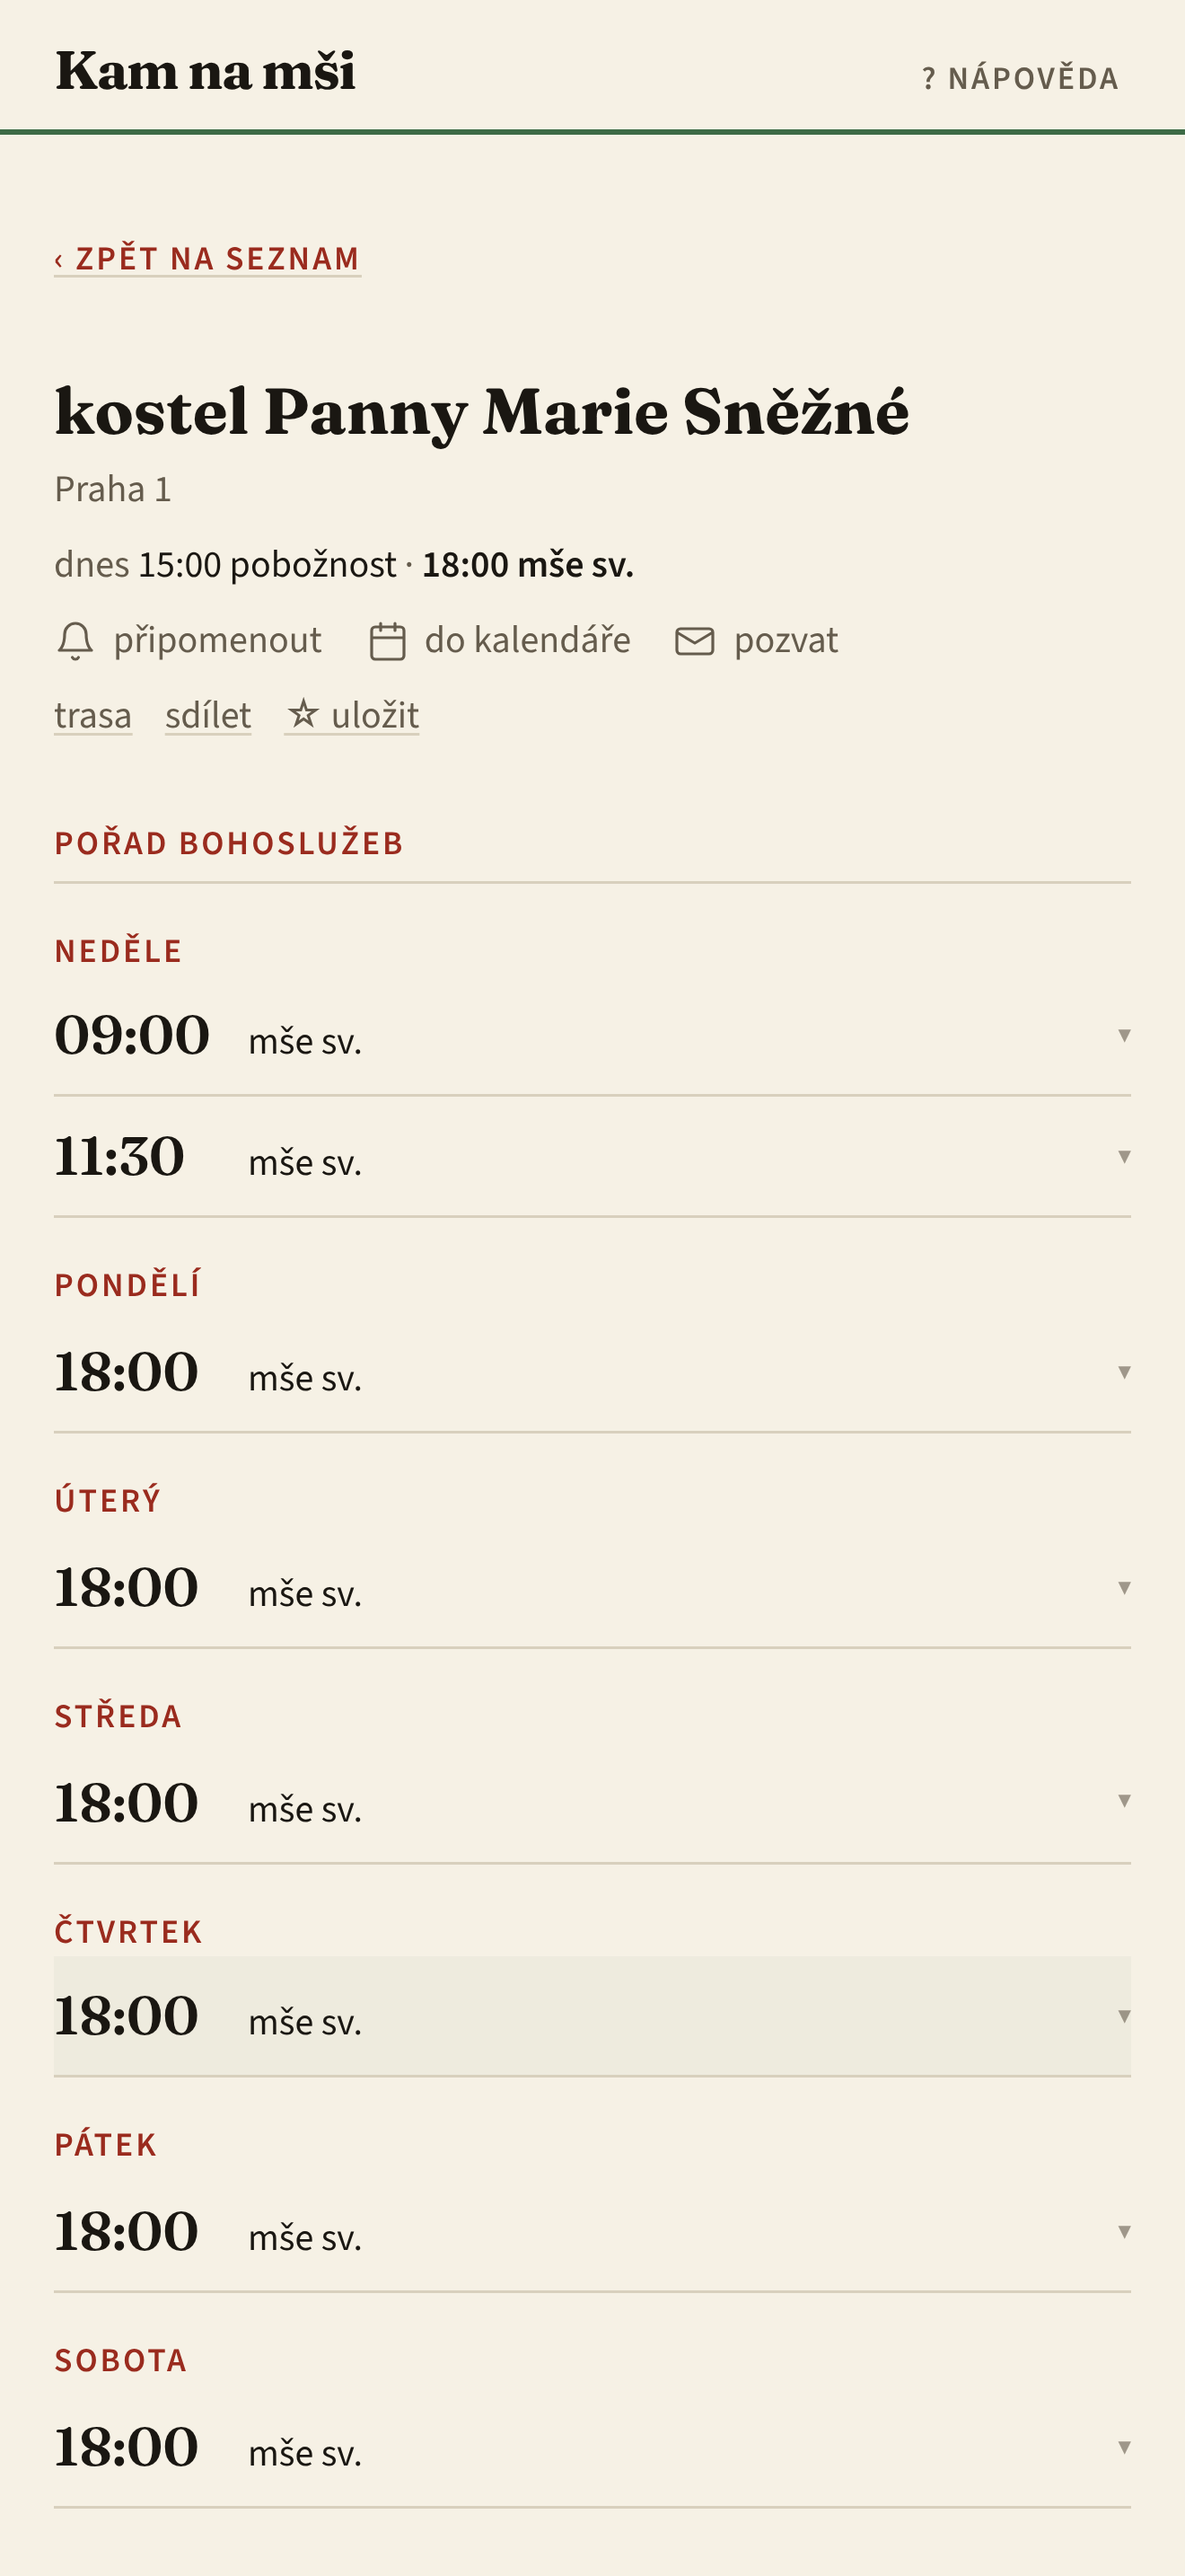
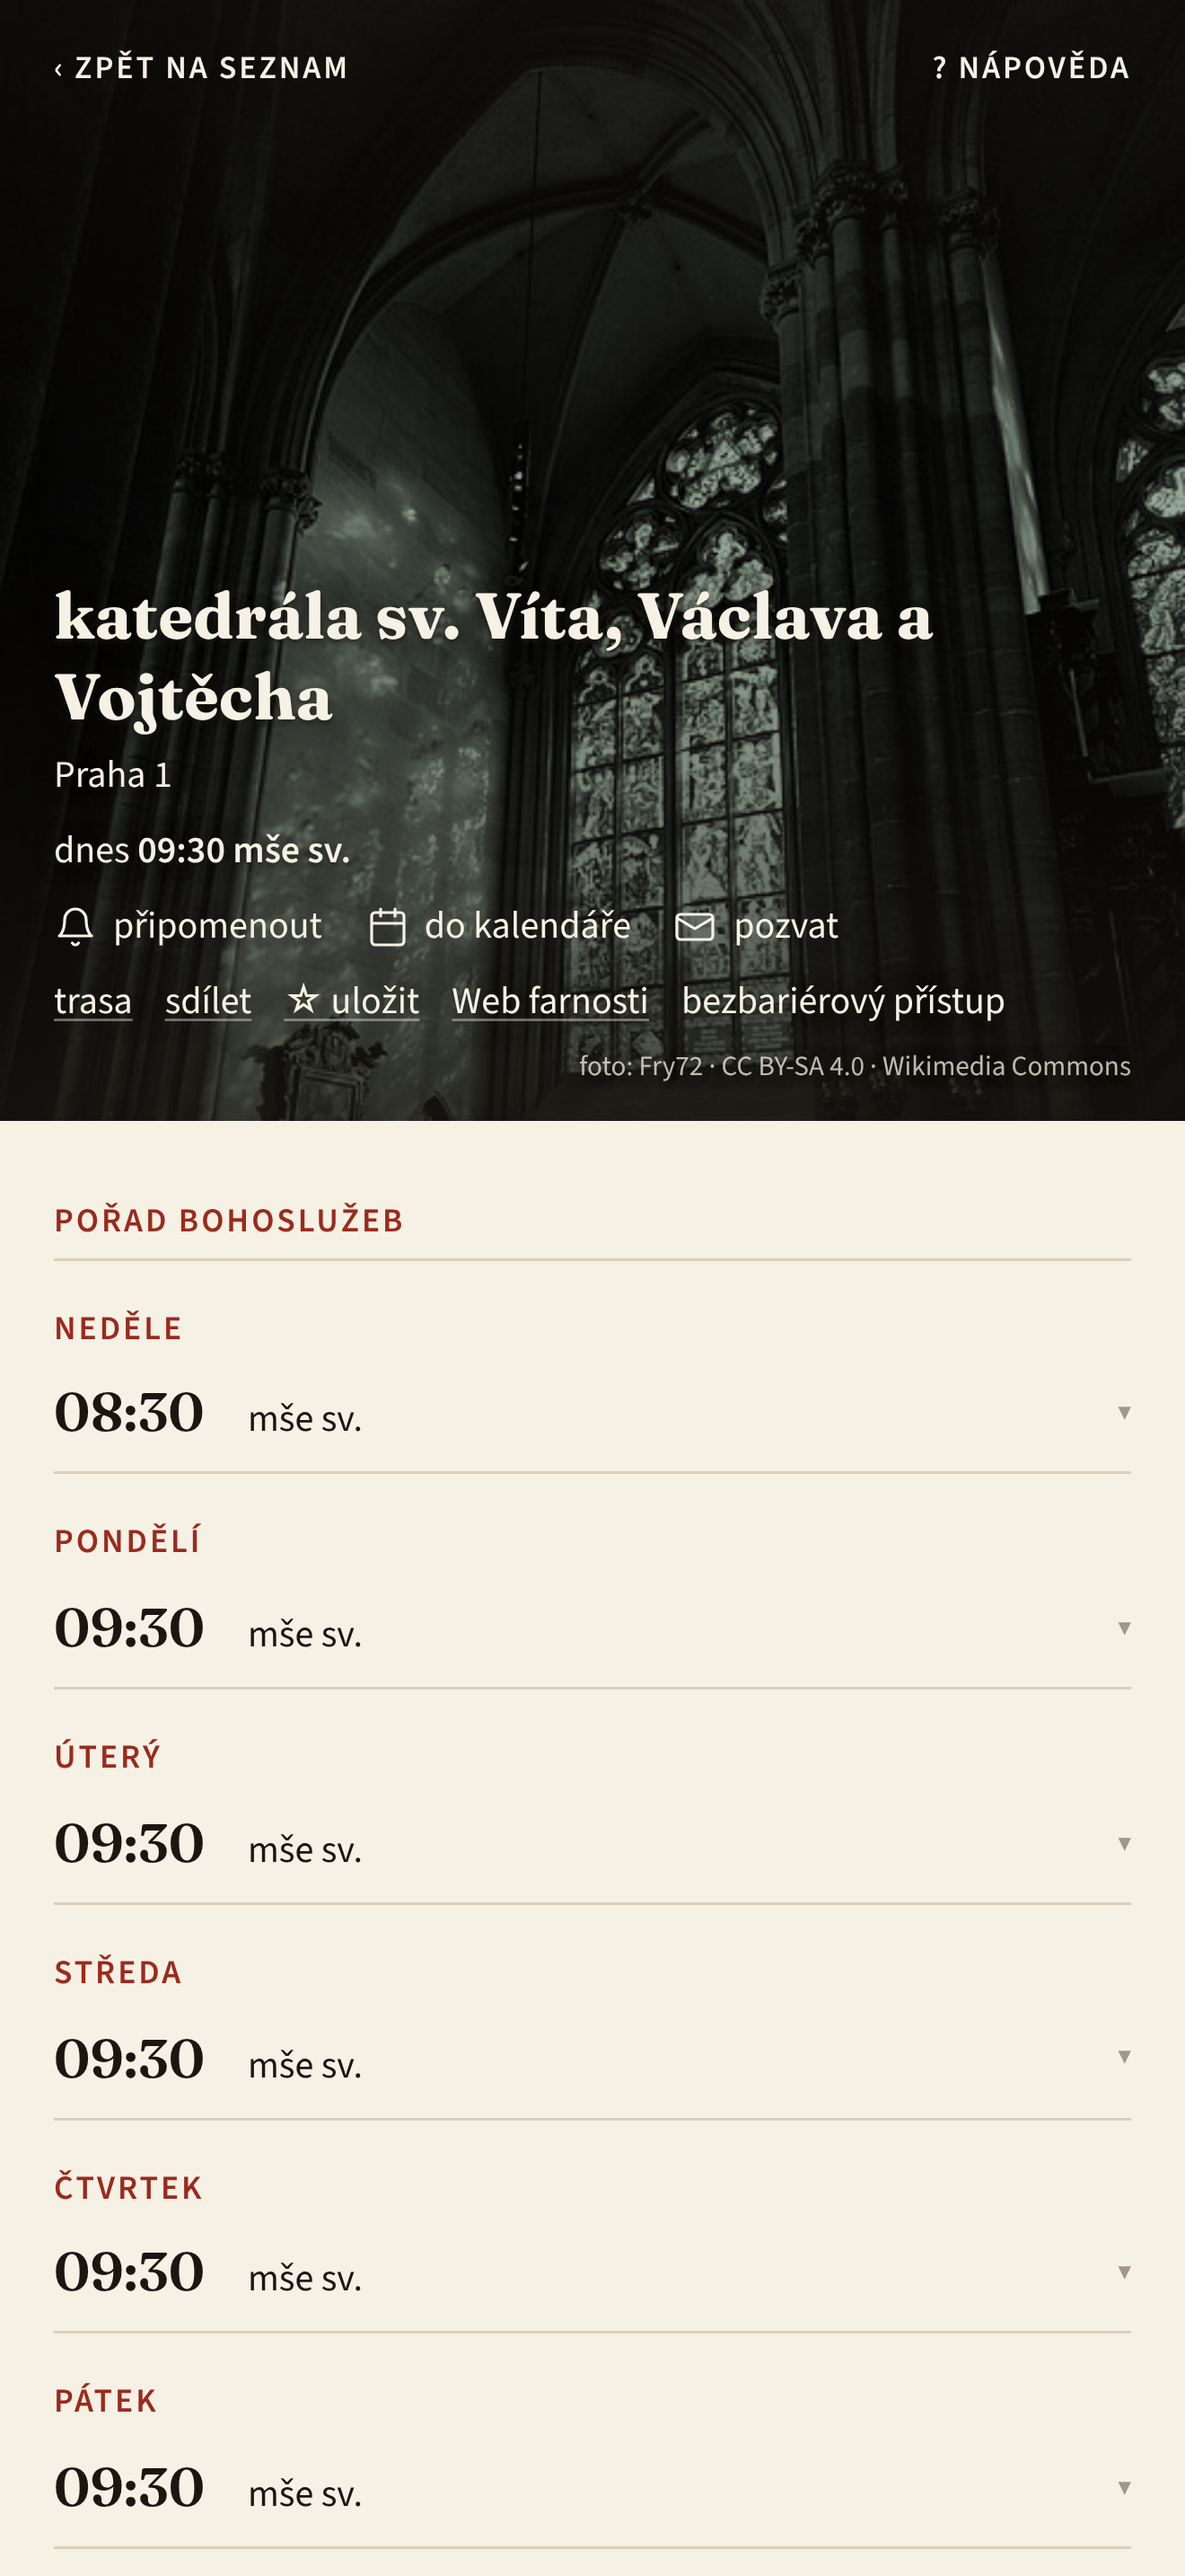
store 1.5: detail screenshot with a church photo (St Vitus, its own Commons photo); release note without the kromě clause
Claude-Session: https://claude.ai/code/session_017mKbabRUGjLHwn1k2PHwjP

diff --git a/e2e/store-shots.spec.ts b/e2e/store-shots.spec.ts
@@ -8,7 +8,7 @@
 // upload source). Both MUST stay in lockstep — a v1.1 upload once shipped stale
 // shots because only store-assets was regenerated (verify_listing caught it).
 import { test } from '@playwright/test'
-import { cpSync, mkdirSync, readdirSync } from 'node:fs'
+import { cpSync, mkdirSync, readdirSync, readFileSync } from 'node:fs'
 import { execFileSync } from 'node:child_process'
 import { FIXED_NOW, PRAGUE, mockData } from './fixtures'
 
@@ -37,6 +37,7 @@ for (const d of DEVICES) {
 
     test('store screens', async ({ page }) => {
       test.skip(!!process.env.CI, 'store screenshots are generated locally, not in CI')
+      test.setTimeout(120_000) // real map tiles + a Wikimedia photo
       // the first-run intro guide must not overlay the store shots (step 1 uses
       // real bundled data, so mockData's seed hasn't run yet)
       await page.addInitScript(() => {
@@ -71,14 +72,19 @@ for (const d of DEVICES) {
       // fixture at FIXED_NOW (map already captured, so tile-fade timing moot)
       await page.clock.setFixedTime(FIXED_NOW)
       await mockData(page)
+      // the detail shot shows a church photo (Pavol, 7 Nov): fixture church 2 is St Vitus,
+      // so it gets St Vitus's own entry from the real photos.json (registry id 10001)
+      const photos = JSON.parse(readFileSync('public/data/photos.json', 'utf8'))
+      await page.route('**/data/photos.json', (route) => route.fulfill({ json: { '2': photos['10001'] } }))
       await page.goto('/?zobrazeni=seznam')
       await page.getByText('kostel Panny Marie Sněžné').first().waitFor()
       await page.evaluate(() => document.fonts.ready.then(() => undefined))
       await page.screenshot({ path: `${dir}/2-home.png` })
 
-      // 3 — a church's full ordo + add-to-calendar
-      await page.getByText('kostel Panny Marie Sněžné').click()
+      // 3 — a church with its photo, full ordo + the time's actions
+      await page.getByText('katedrála sv. Víta, Václava a Vojtěcha').first().click()
       await page.getByLabel('Pořad bohoslužeb').waitFor()
+      await page.waitForFunction(() => [...document.images].some((i) => i.src.includes('wikimedia') && i.complete && i.naturalWidth > 0), { timeout: 15000 })
       await page.evaluate(() => document.fonts.ready.then(() => undefined))
       await page.screenshot({ path: `${dir}/3-detail.png` })
 
